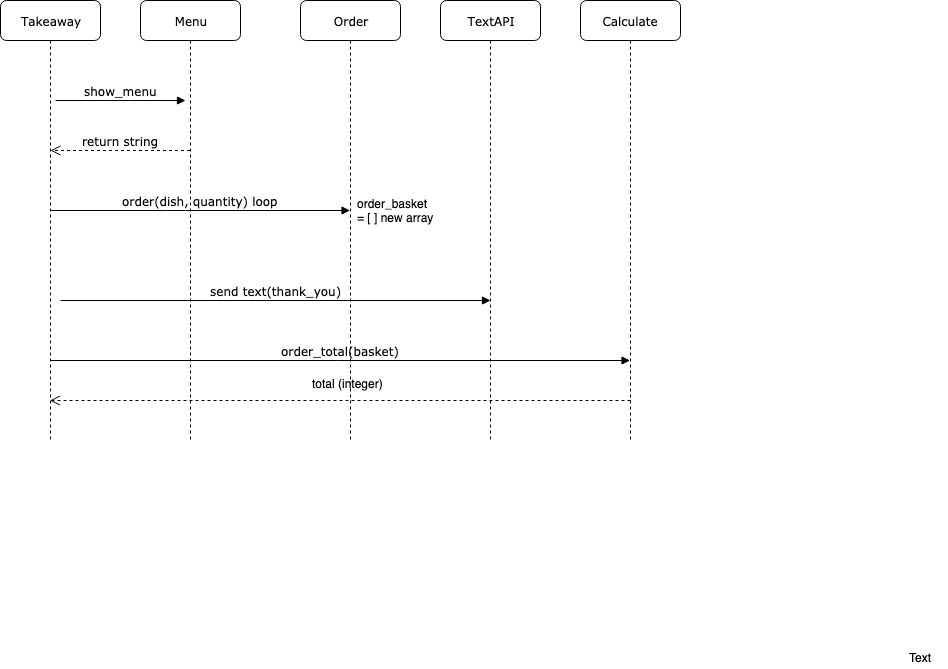
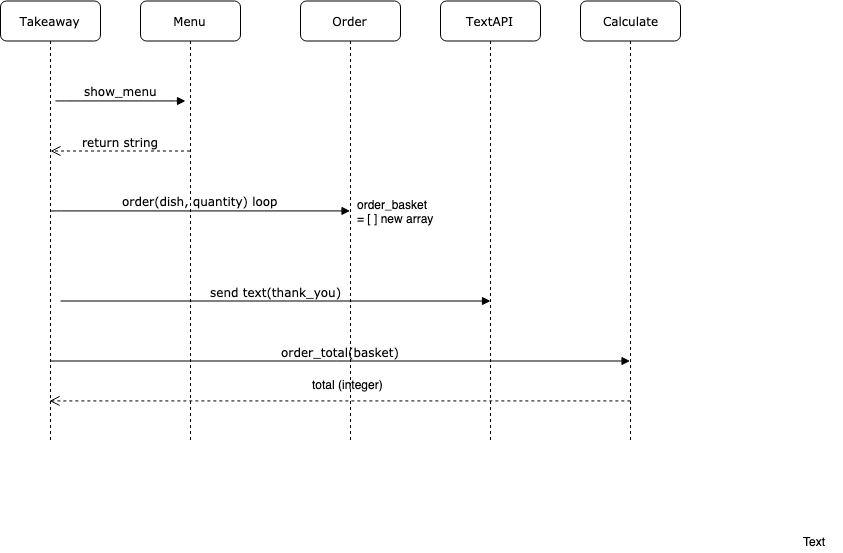
edit sequence diagram link

diff --git a/README.md b/README.md
@@ -52,6 +52,6 @@ Domain modelling
 
 Started the weekeend challenge by utilizing my recently learned skills in domain modelling, I much rather start using a model as I am visual person. This way I can fully understand what the user stories are and the functionality req'd. I did a Sequence diagram and then a class diagram which I will add once I transfer it from paper.
 
-Markup : ![sequence diagram](https://ibb.co/BnCwW5D "Takeaway model")
+![sequence diagram](https://i.ibb.co/JsLTbkL/takeaway-challenge-sequence.png "Takeaway model")
 
 
